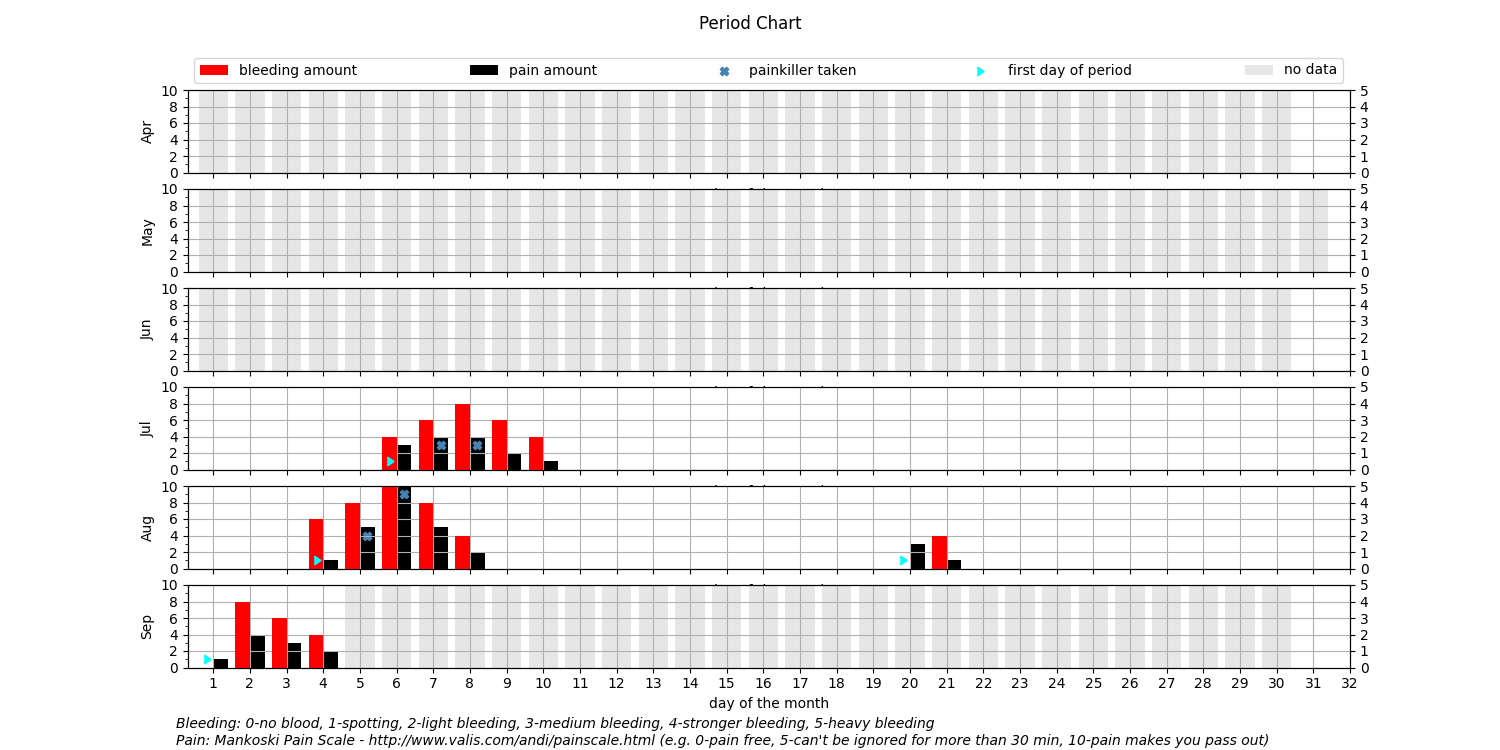
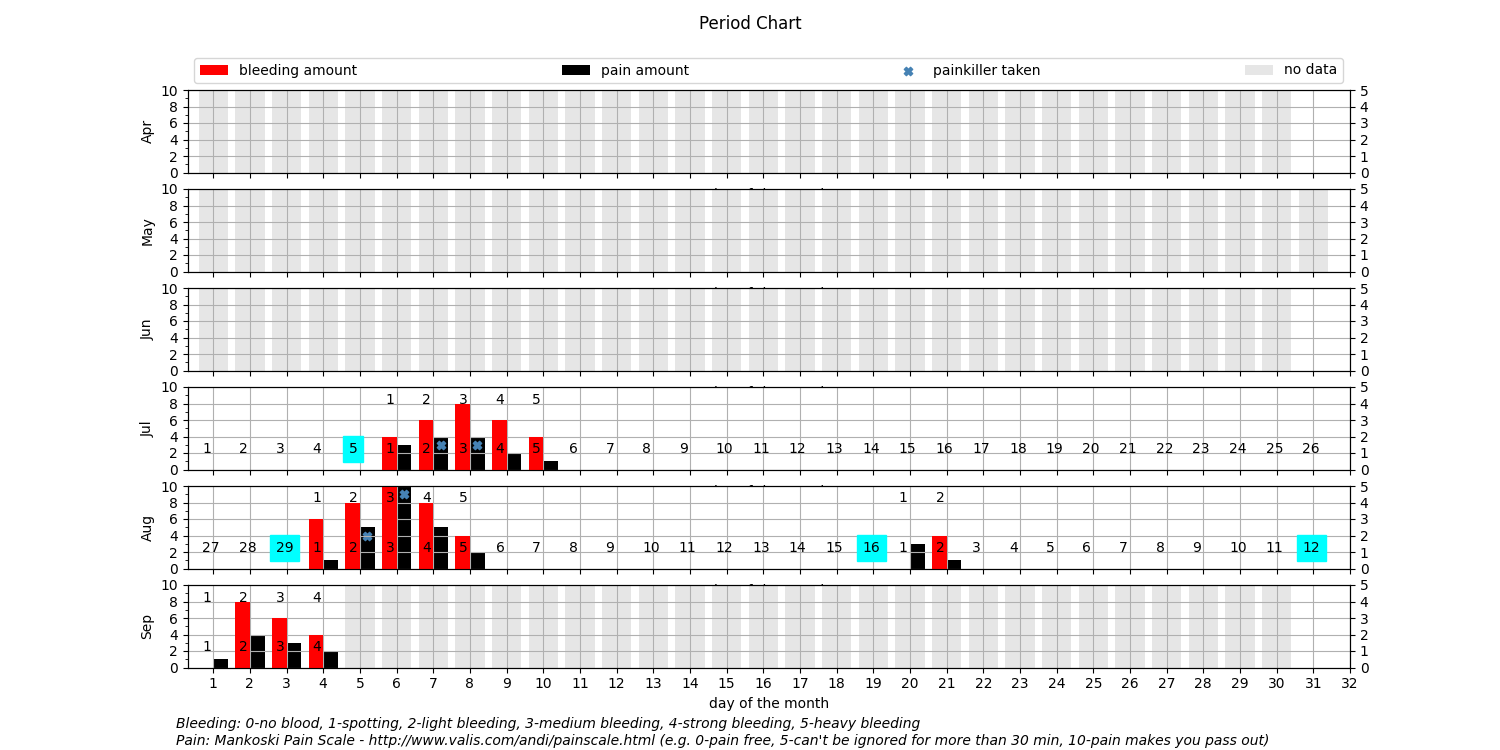
removed 'first', added cyclecounter to visualization

diff --git a/visualization.py b/visualization.py
@@ -48,7 +48,8 @@ def preparedata(savefile, fordate):
 
 def plot(savefile, fordate):
     plotdata, observedmonths=preparedata(savefile, fordate)
-    text1=('Bleeding: 0-no blood, 1-spotting, 2-light bleeding, 3-medium bleeding, 4-stronger bleeding, 5-heavy bleeding')
+    plotdata=addcounter(plotdata)
+    text1=('Bleeding: 0-no blood, 1-spotting, 2-light bleeding, 3-medium bleeding, 4-strong bleeding, 5-heavy bleeding')
     text2=("Pain: Mankoski Pain Scale - http://www.valis.com/andi/painscale.html (e.g. 0-pain free, 5-can't be ignored for more than 30 min, 10-pain makes you pass out)")
     
     
@@ -66,10 +67,18 @@ def plot(savefile, fordate):
         pain=plotdata[plotdata[1] == observedmonths[i_month]][5].reset_index(drop=True)
         pain=pain.replace(-1,0)
         painkiller=plotdata[plotdata[1] == observedmonths[i_month]][6].reset_index(drop=True)
+        period=plotdata[plotdata[1] == observedmonths[i_month]][8].reset_index(drop=True)
+        cycle=plotdata[plotdata[1] == observedmonths[i_month]][9].reset_index(drop=True)
+        lastcycleday=pd.DataFrame(plotdata[plotdata[1] == observedmonths[i_month]][10].reset_index(drop=True))
         
         positioning_painkiller=pain-1
         positioning_first=pd.DataFrame([0.5]*len(first))
         positioning_nodata=pd.DataFrame([10]*len(nodata))
+        positioning_period=pd.DataFrame([4]*len(period))
+        positioning_cycle=pd.DataFrame([1]*len(cycle))
+
+
+
         
 
         painkillerdata=pd.concat([x, positioning_painkiller, painkiller], axis=1).reset_index(drop=True)
@@ -84,6 +93,12 @@ def plot(savefile, fordate):
         nodatadata.columns=range(nodatadata.shape[1])
         nodatadata=nodatadata[nodatadata[2]== -1]
 
+        perioddata=pd.concat([x, positioning_period, period], axis=1).reset_index(drop=True)
+        perioddata.columns=range(perioddata.shape[1])
+        
+        cycledata=pd.concat([x, positioning_cycle, cycle], axis=1).reset_index(drop=True)
+        cycledata.columns=range(cycledata.shape[1])
+        
         
 
         ax2=a.twinx()
@@ -91,9 +106,19 @@ def plot(savefile, fordate):
         bleedplot=ax2.bar(x-0.2, blood, 0.4, color='red', label='bleeding amount')
         painplot=a.bar(x+0.2, pain, 0.4,color='black', label='pain amount')
         painkillerplot=a.scatter(painkillerdata[0]+0.2, painkillerdata[1], color='steelblue', marker='X', label='painkiller taken')
-        firstplot=ax2.scatter(firstdata[0]-0.1, firstdata[1], color='cyan', marker=5, label='first day of period')
+        # firstplot=ax2.scatter(firstdata[0]-0.1, firstdata[1], color='cyan', marker=5, label='first day of period')
         nodataplot=a.bar(nodatadata[0], nodatadata[1], color='0.9', label='no data')
-        plotcollection=[bleedplot, painplot, painkillerplot, firstplot, nodataplot]
+
+        for i in range(len(perioddata)):
+            periodplot=ax2.text(perioddata.iloc[i,0]-0.3, perioddata.iloc[i,1], perioddata.iloc[i,2])
+            if lastcycleday.iloc[i,0]==True:
+                cycleplot=ax2.text(cycledata.iloc[i,0]-0.3, cycledata.iloc[i,1], cycledata.iloc[i,2],backgroundcolor='cyan')
+            else:
+                cycleplot=ax2.text(cycledata.iloc[i,0]-0.3, cycledata.iloc[i,1], cycledata.iloc[i,2])
+        
+
+        # plotcollection=[bleedplot, painplot, painkillerplot, firstplot, nodataplot]
+        plotcollection=[bleedplot, painplot, painkillerplot, nodataplot]
         a.grid(axis='both')
         a.set_xlim(0.3,32)
         a.set_ylim(0,10)
@@ -103,7 +128,8 @@ def plot(savefile, fordate):
         if i_month!=len(observedmonths)-1:
             a.xaxis.set_major_formatter(ticker.NullFormatter())
         if i_month==0:
-            plt.legend(plotcollection, [p_.get_label() for p_ in plotcollection],bbox_to_anchor=(0,1,1,.1), ncol=5, mode="expand", loc="lower left")
+            # plt.legend(plotcollection, [p_.get_label() for p_ in plotcollection],bbox_to_anchor=(0,1,1,.1), ncol=5, mode="expand", loc="lower left")
+            plt.legend(plotcollection, [p_.get_label() for p_ in plotcollection],bbox_to_anchor=(0,1,1,.1), ncol=4, mode="expand", loc="lower left")
         a.xaxis.set_major_locator(ticker.MultipleLocator(1))
         a.yaxis.set_major_locator(ticker.MultipleLocator(2))
         a.yaxis.set_minor_locator(ticker.MultipleLocator(1))
@@ -120,5 +146,35 @@ def plot(savefile, fordate):
 
     return
 
-
-# visualize('visualizationtesting.csv')
+def addcounter(dataframe):
+    activeperiod=[]
+    cycle=[]
+    lastdayofcycle=[]
+    counter=0
+    for i in range(len(dataframe)):
+        lastdayofcycle.append(False)
+        if (dataframe.iloc[i,4]==-1): #no data
+            periodstate='nodata'
+            counter=0
+            activeperiod.append('')
+            cycle.append('')
+        elif (dataframe.iloc[i,4]==0) and (dataframe.iloc[i,5]==0): #time between periods
+            if periodstate != 'noperiod':
+                periodstate='noperiod'
+            counter=counter+1
+            activeperiod.append('')
+            cycle.append(str(counter))
+        else:
+            if periodstate != 'period':
+                counter=0
+                periodstate='period'
+                if i>0:
+                    lastdayofcycle[i-1]=True
+            counter=counter+1
+            activeperiod.append(str(counter))
+            cycle.append(str(counter))
+    dataframe[8]=activeperiod
+    dataframe[9]=cycle
+    dataframe[10]=lastdayofcycle
+    return dataframe
+visualize('visualizationtesting.csv')

diff --git a/main.py b/main.py
@@ -79,7 +79,7 @@ class MyPanel(wx.Panel):
             name='forgot_check_box')
         forgotcheck.Bind(wx.EVT_CHECKBOX, self.on_forgotcheck)
 
-        firstcheck=wx.CheckBox(self, label="FIRST entry since last bleeding/pain? (all days from last entry will be marked pain/bloodfree unless FORGOTTEN is also checked)",
+        firstcheck=wx.CheckBox(self, label="no pain/bleeding since last entry? (all days from last entry will be marked pain/bloodfree unless FORGOTTEN is also checked)",
             name='firstday_check_box')
         firstcheck.Bind(wx.EVT_CHECKBOX, self.on_firstdaycheck)
 

diff --git a/tmp.py b/tmp.py
@@ -1,0 +1,16 @@
+import matplotlib.pyplot as plt
+xs = [0, 1, 2]
+ys = [2.5, 4, 3]
+plt.plot(xs, ys)
+for x, y in zip(xs, ys):
+    plt.text(x, y, str(x), color="red", fontsize=12)
+plt.show()
+
+
+# import pandas as pd
+# import numpy as np
+# array=np.array([(11,12),(21,22)])
+
+# df=pd.DataFrame(array)
+# df[2]=[33,66]
+# print(df)
